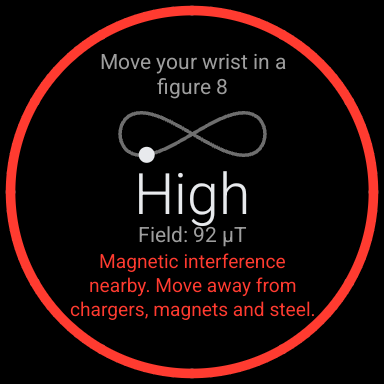
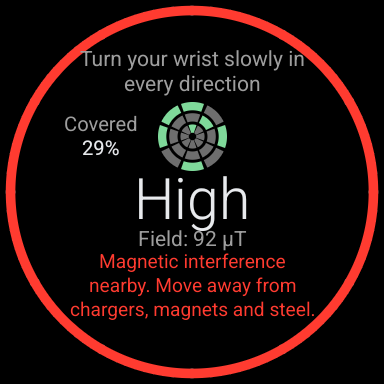
Calibration pictures on both round sizes (seven segments lit, interference, largest font on the small round); matrix taps Calibrate where it is on the small round; TESTING for the new tests and checks
screenshot-matrix's find_row cannot bring Calibrate to the middle on the small round
since the Colors row; the calibration section taps it where it is.

Claude-Session: https://claude.ai/code/session_01KAiVD4eVXLN9qRyssXtjz6

Changed region(s): [[0.1562, 0.125, 0.8125, 0.6562], [0.5938, 0.4688, 0.6562, 0.5312], [0.375, 0.5, 0.4375, 0.5312]]

diff --git a/app/src/main/java/com/infinite8looper/compass/ui/CalibrationScreen.kt b/app/src/main/java/com/infinite8looper/compass/ui/CalibrationScreen.kt
@@ -37,7 +37,6 @@ import androidx.compose.ui.semantics.semantics
 import androidx.compose.ui.text.font.FontWeight
 import androidx.compose.ui.text.style.TextAlign
 import androidx.compose.ui.text.style.TextOverflow
-import androidx.compose.ui.unit.Dp
 import androidx.compose.ui.unit.sp
 import androidx.lifecycle.Lifecycle
 import androidx.lifecycle.compose.LocalLifecycleOwner
@@ -156,11 +155,11 @@ fun CalibrationScreen(vm: CompassViewModel) {
         }
         CoverageRing({ covered.intValue }, Modifier.offset(y = r * RING_Y).size(r * RING_RADIUS * 2))
         Beside(
-            "Covered", coveredText(covered.intValue), besideStyle, r,
+            "Covered", coveredText(covered.intValue), besideStyle,
             Modifier.offset(x = -r * BESIDE_X, y = r * RING_Y).width(r * BESIDE_WIDTH),
         )
         shown.errorText?.let { error ->
-            Beside("Error", error, besideStyle, r, Modifier.offset(x = r * BESIDE_X, y = r * RING_Y).width(r * BESIDE_WIDTH))
+            Beside("Error", error, besideStyle, Modifier.offset(x = r * BESIDE_X, y = r * RING_Y).width(r * BESIDE_WIDTH))
         }
         Text(
             accuracyLabel(shown.accuracy), color = Ink, style = wordStyle, maxLines = 1,
@@ -187,7 +186,7 @@ fun CalibrationScreen(vm: CompassViewModel) {
 
 /** A label and its value on two lines, beside the ring: the label dim, the value in ink. Each line is drawn smaller rather than cut. */
 @Composable
-private fun Beside(label: String, value: String, style: androidx.compose.ui.text.TextStyle, r: Dp, modifier: Modifier) {
+private fun Beside(label: String, value: String, style: androidx.compose.ui.text.TextStyle, modifier: Modifier) {
     Column(modifier, horizontalAlignment = Alignment.CenterHorizontally, verticalArrangement = Arrangement.Center) {
         for ((text, color) in listOf(label to Dim, value to Ink)) {
             BasicText(

diff --git a/docs/TESTING.md b/docs/TESTING.md
@@ -30,7 +30,7 @@ The instrumented tests act on the app's real data on the device they run on. The
 scripts/test-counts.sh unit
 ```
 
-They cover the pure functions in `nav/`, and the table of vibrations in `ui/Vibrations.kt` (`VibrationTableTest`), and need no device. `StaticInitOrderTest` loads `nav/Navigation.kt` and `nav/WatchColors.kt` afresh in a class loader of its own, one or the other first, and checks the ring's read offset and the first waypoint's color each way (it failed on the offset's old field form with Navigation.kt first). `WaypointPlacesTest` checks the places new waypoints are given (500 in a row, 5000 random sets of places already taken). The second command prints each class's count and the total from the result XML, and exits 1 if a test failed or there are no results.
+They cover the pure functions in `nav/`, and the table of vibrations in `ui/Vibrations.kt` (`VibrationTableTest`), and need no device. `StaticInitOrderTest` loads `nav/Navigation.kt` and `nav/WatchColors.kt` afresh in a class loader of its own, one or the other first, and checks the ring's read offset and the first waypoint's color each way (it failed on the offset's old field form with Navigation.kt first). `WaypointPlacesTest` checks the places new waypoints are given (500 in a row, 5000 random sets of places already taken). `CalibrationTest` checks the calibration ring's regions with fifteen magnetometer vectors recorded from the API 37 emulator (each set through its sensor console and read back from `dumpsys sensorservice`), the heading error read from values[4], the `Calibrate` prompt's threshold and the two-minute keep-on rule. `HeadingBlendTest` turns a fused heading that drifts 0.6 degrees a second through thirty full turns each way and checks that the blend stays within 5 degrees of the true heading. The second command prints each class's count and the total from the result XML, and exits 1 if a test failed or there are no results.
 
 ## Instrumented tests, one emulator
 
@@ -54,6 +54,9 @@ pkill -f geo-feed.sh
 - What a watch says of its buttons decides which case `SideButtonTest` and `WatchInputsDeviceTest` check (`sensors/WatchButtons.kt`). The emulator images report no button, so `SideButtonTest` checks there that the side keys do nothing, and `WatchInputsDeviceTest` fails if an image ever reports otherwise. The handling of the keys on a watch that has a button is checked apart from any screen by `SideButtonKeysTest`, which gives real key events to the app's handler, and by `TrailTest`.
 - `RingScreensTest` reads the counters the three screens keep of how often each was built and composed (`ui/ScreenCompositions.kt`), and turns the ring with touches it injects and with Back. Location runs, as it does for the wearer, with the position feed: the test waits on the waypoints screen for a new position in each of two turns, requires at least two to arrive during the turns (going away on settings does not count) and one to arrive while a swipe is held with the finger moved 0.3 of the screen's width, and the counts must not rise for them, since a position composes only the parts that show it. A failure's message lists which fields of the screen state changed and when.
 - The v2 tests that need a save to wait for a position (no position in hand) switch the watch's location off for 11 s and on again just before the press (`noPositionInHand` in `CompassViewModelTest` and `InstantSaveTest`), so no position from the app or the location provider is 10 s old or newer at the press.
+- `HeadingSourceTest` runs each of the three heading sources (fused, magnetic, blend) on the emulator's sensors, the magnetic one both from the geomagnetic rotation vector and from `getRotationMatrix`, and requires the three to agree within 3 degrees with the watch lying still; it reads `dumpsys sensorservice` to check that the fused source registers only the rotation vector and the magnetometer. Given `-e expectedHeading <degrees>` it also requires each to be within 3 degrees of that heading: `scripts/heading-sources-check.sh` sets the headings 0, 90, 200 and 300 through the console and runs it with each. The emulators' rotation vector gives no estimated heading error (its values[4] is 0, see `headingErrorDeg`), so the error's line on the calibration screen and the `Calibrate` prompt from a large error are not seen on any emulator.
+- `CalibrationScreenTest` opens calibration from the settings on the real activity: the instruction, `Covered` and a share above 0% (the field the console set lights its segment), the level, no figure 8; the window kept on while it is open and not after Back; and, with the watch still, kept on 110 s after the opening and let go before 130 s (it waits for that, about two minutes). Lighting more segments needs the field changed from this machine: `scripts/calibration-check.sh` sets the fourteen poses `CalibrationTest` records through the console, reads the share after each (it must never go down and must end at 50%), then a 92 microtesla field (the share must not change, the warning must show).
+- `CompassViewModelTest.theHeadingSourceIsSwitchedForTheRunningAppAndStartsFused` switches a view model's heading source to each kind and checks the heading it gives is that source's.
 - `scripts/test-counts.sh device [folder]` reads `app/build/outputs/androidTest-results/connected/`, or the given folder, such as a copy kept from an earlier run.
 
 ## Instrumented tests, every emulator

diff --git a/docs/screenshots/README.md b/docs/screenshots/README.md
@@ -102,8 +102,8 @@ Every picture here is a capture from an emulator, taken on 2026-10-13 from the d
 | End | `settings-end` | `settings`: scrolled to `Calibrate` |
 | `Breadcrumb trail` and `Show coordinates` on | `settings-trail-coords-on` | `settings`: `Show coordinates` tapped (location already granted; the trail is on by default), scrolled to `Breadcrumb trail` |
 | Every switch off (3 frames: top, middle, end) | `settings-all-off` | `settings`: each row tapped, and `Turn off` answered to the backup's question |
-| Calibration | `calibrate` | `calibration`: `Calibrate` tapped |
-| Interference | `calibrate-interference` | `calibration`: `adb emu sensor set magnetic-field 0:80:-45` (92 microtesla) |
+| Calibration: seven segments of the ring lit, `Covered 29%` (2026-10-15, v3 Task 6) | `calibrate` | `calibration`: `Calibrate` tapped at heading 40, then the fields `0:20:-45 -20:0:-45 0:-20:-45 20:0:-45 45:20:0 0:20:45` set through the console |
+| Interference (2026-10-15) | `calibrate-interference` | `calibration`: then `adb emu sensor set magnetic-field 0:80:-45` (92 microtesla): the share stays 29% |
 | The question before backups are turned off | `backup-off-question` | by hand: `Back up waypoints` tapped while it is on |
 
 ## The largest font size
@@ -119,8 +119,8 @@ The system's font scale set to 1.24, the largest step of the Wear OS font size s
 | Settings, further down still | `font-largest-settings-end` | scrolled |
 | Waypoints with the `Drop crumb` row | `font-largest-waypoints` | a second Back, the list scrolled up by one row |
 | Edit, a name on two lines | `font-largest-edit` | a long press on `Trailhead parking lot north` |
-| Calibration | `font-largest-calibration` | `Calibrate` tapped |
-| Calibration with interference | `font-largest-calibration-interference` | `adb emu sensor set magnetic-field 0:80:-45` |
+| Calibration (small: 2026-10-15, v3 Task 6) | `font-largest-calibration` | `Calibrate` tapped, the same six fields set as in `calibrate` |
+| Calibration with interference (small: 2026-10-15) | `font-largest-calibration-interference` | `adb emu sensor set magnetic-field 0:80:-45` |
 | The question before backups are turned off | `font-largest-backup-off-question` | `Back up waypoints` tapped |
 
 ## The three screens

diff --git a/docs/superpowers/specs/2026-10-13-wear-compass-v3-watch-report.md b/docs/superpowers/specs/2026-10-13-wear-compass-v3-watch-report.md
@@ -165,7 +165,7 @@ As built (Task 6, 2026-10-15), for this section and the one above:
 - Sources (`sensors/HeadingSource.kt`, `HeadingKind` in `nav/Navigation.kt`): each reading carries the fused heading, the magnetic one and the blend (each not a number while it is not worked out), the shown one of the kind asked for, the field vector and the estimated error. The fused source registers the rotation vector and the magnetometer only, as before; the magnetic source and the blend add the geomagnetic rotation vector (or, on a watch without it, the accelerometer at the game rate). A reading comes with each rotation vector event; for the magnetic kind none comes until the first magnetic heading. The pitch for `Hold flat` is the fused sensor's in every kind.
 - The blend (`HeadingBlend`): each fused reading moves it by the fused heading's change since the last, then 1 - e^(-dt/5 s) of its difference from the magnetic heading is taken out. Thirty full turns each way at 120 degrees a second with a fused heading drifting 0.6 degrees a second (54 degrees by the end) kept it within 5 degrees of the true heading after the first 15 s, and within 3.5 degrees 10 s after stopping (`HeadingBlendTest`).
 - The switch for the running app is `CompassViewModel.setHeadingKind`; a start is always on the fused source (`DEFAULT_HEADING_KIND`), nothing is stored. The check screen's row (Task 7) is to call it.
-- On the emulators, lying flat at the headings 0, 90, 200 and 300 set through the console, the fused, magnetic (both ways) and blended headings were each within 3 degrees of the heading set (`scripts/heading-sources-check.sh`), and `scripts/calibration-check.sh` lit 12 of 24 regions (50%) with the fourteen recorded poses, and nothing more with a 92 microtesla field.
+- On the API 37, API 35 large round and API 35 small round emulators (2026-10-15), lying flat at the headings 0, 90, 200 and 300 set through the console, the fused, magnetic (both ways) and blended headings were each within 3 degrees of the heading set (`scripts/heading-sources-check.sh`), and `scripts/calibration-check.sh` lit 12 of 24 regions (50%) with the fourteen recorded poses, and nothing more with a 92 microtesla field, on each.
 
 ## Check screen
 
